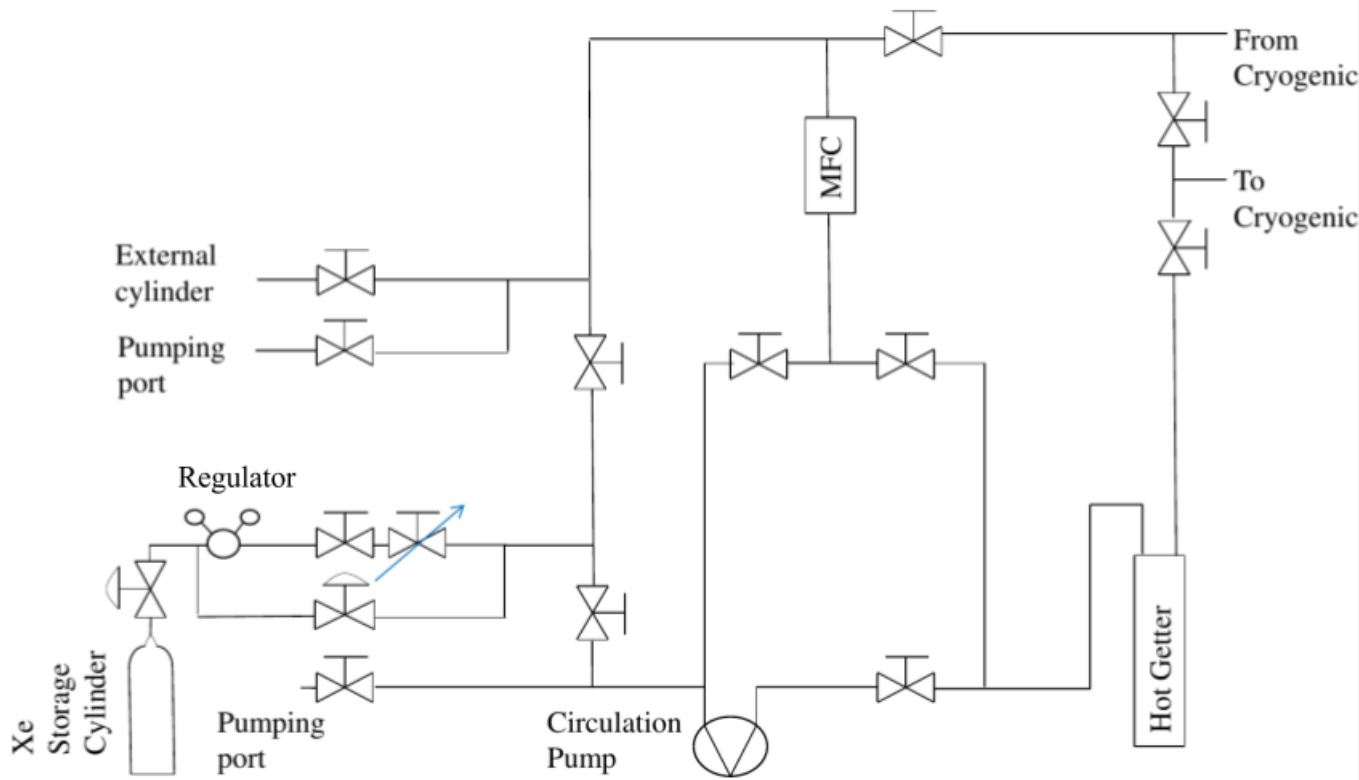
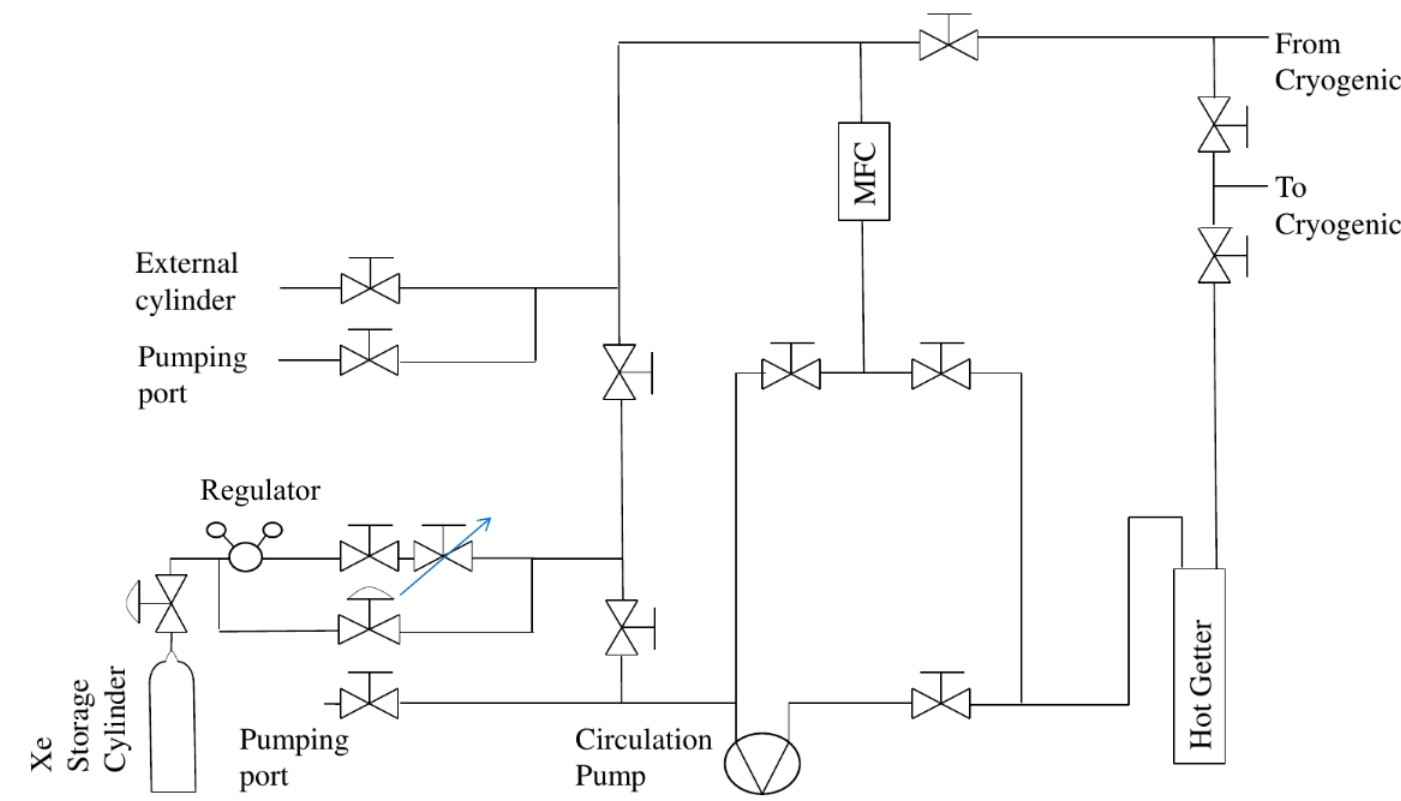
Hagar revision done final

Changed region(s): [[0.0, 0.0, 1.0, 1.0], [0.0618, 0.3077, 0.1854, 0.4], [0.8653, 0.4923, 0.8962, 0.5538]]

diff --git a/ExpSetup1.tex b/ExpSetup1.tex
@@ -7,47 +7,27 @@
 %Comment: The detector section has been modified. MMdevi's changes are made in blue
 %%%%%%%%%%%%%%%%%%%%%%%%%%%%%%%%%%%%%%%%%%%%%%%%%%%%%%%%%%%%%%%%%%%%%%%%%%%%%%%%%%%%%%%%%%%%%%%%%%%%%%%%%%%%%%%
 
-In order to identify superradiance effects in LXe, the temporal and spatial properties of scintillation events should be studied and quantified. In the DireXeno system LXe is circulated through a small spherical cavity held in a thick high purified fused silica (HPFS) sphere . The sphere is surrounded ($\sim4\pi$) by PMTs allowing high resolution spatial and temporal measurements of individual photons. The PMTs do not come in contact with the xenon, so less impurities are introduced to it, and the material selection is less stringent. The geometrical design of the system simulates a point like source of scintillation photons, and a detailed vertex reconstruction within the LXe bubble is unnecessary. A schematic view of the system is shown in Fig~\ref{fig:detSch} . 
+In order to identify superradiance effects in LXe, the temporal and spatial properties of scintillation events should be studied and quantified. In the DireXeno system LXe is circulated through a small spherical cavity held in a thick sphere made of high purified fused silica (HPFS). The sphere is surrounded ($\sim4\pi$) by PMTs allowing high resolution spatial and temporal measurements of individual photons. The PMTs do not come in contact with the xenon, so less impurities are introduced to it, and the material selection is less stringent. The geometrical design of the system approximates a point  source of scintillation photons, and a detailed vertex reconstruction within the LXe bubble is unnecessary. A schematic view of the system is shown in Fig~\ref{fig:detSch} . 
 
 \begin{figure}[h]
-\centerline{\includegraphics[width=0.8\linewidth]{DetSch.pdf}}
+\centerline{\includegraphics[width=0.8\linewidth]{DetSch.png}}
 \caption{A schematic view of DIREXENO.}
 \label{fig:detSch}
 \end{figure}
 
 
-The current system is designed with \RanComment{TODO check digitzation time} $\sim1$\,ns time resolution, less than $1$\,ns synchronization between PMTs, and $\sim8$ radians spatial resolution. Since the exact nature and magnitude of superradiance in LXe is yet unknown a guiding principle in the design was flexibility to upgrades or redesign of any part of the system to fulfill any future experiment requirements. In addition we gain fast and easy recovery in case of components malfunction. This is achieved by a modular design. 
+The current system is designed with \RanComment{TODO check digitzation time} $\sim1$\,ns time resolution, less than $1$\,ns synchronization between PMTs, and $\sim8$ radians spatial resolution. Since the exact nature and magnitude of superradiance in LXe is yet unknown a guiding principle in the design was flexibility to upgrades or redesign of any part of the system to fulfill any future experiment requirements. The modular design allows gain fast and easy recovery in case of components malfunction.
 
-Four main building blocks constitute the system. (i) \textbf{The gas handling system} which in normal working mode circulates the xenon and purifies it. (ii) \textbf{The cryogenic system}, liquefies the xenon and 
+The system is made of four main building blocks. (i) \textbf{The gas handling system} which in normal working mode circulates the xenon and purifies it. (ii) \textbf{The cryogenic system}, liquefies the xenon and 
 delivers it to the detector system. (iii) \textbf{The detector system} consists of a fused silica sphere that 
 holds a small bubble of LXe target, and PMTs around the sphere. (iv) \textbf{The DAQ system} supplies high voltage (HV) 
-to the PMTs and the handles monitoring, triggering and digitization of data. The entire assembly is held on 3 separate racks as shown in Fig.~\ref{fig:fulldet}.
- 
-
-%The experimental setup of DIREXENO is described in this section. This setup is  designed to measure the spatial and temporal properties of LXe scintillation. It consists of a modular design in order to extend its flexibility to fulfill the requirement of any different future experiments. 
-
-%The four main building blocks constitutes of the full setup, a schematics 
-%of which, with the interfaces between them is shown in Fig.~\ref{fig:fullschematics}. 
-%The gas handling system, in normal working mode, drives the xenon from the detector through 
-%a purifier and cycles it back into the detector. The cryogenic system, liquefies the xenon and 
-%delivers it to the detector system. The detector system consists of a fused silica sphere that 
-%holds a small bubble of LXe target, and PMTs around the sphere. The supply of high voltage (HV) 
-%to the PMTs and the data readout are carried out through the 
-%data acquisition system (DAQ) system. 
-%These four building blocks are independent of each other construction wise, and can be 
-%replaced without altering features in the others. 
-
-%\begin{figure}[h]
-%\centerline{\includegraphics[width=0.8\linewidth]{WholeSys.png}}
-%\caption{A schematic of DIREXENO showing all the four building blocks of the system.}
-%\label{fig:fullschematics}
-%\end{figure}
+to the PMTs and handles monitoring, triggering and digitization of data. The entire assembly is held on 3 separate racks as shown in Fig.~\ref{fig:fulldet}.
 
 
 
 \begin{figure}[h]
 \centerline{\includegraphics[width=0.8\linewidth]{FullSys.png}}
-\caption{DIREXENO. 1. The gas handling system. 2. The cryogenic system including the heat exchanger. 3. The detector chamber. 4. The Data acquisition system.}
+\caption{The DireXeno system mounted on the three racks. 1. The gas handling system. 2. The cryogenic system including the heat exchanger. 3. The detector chamber. 4. The Data acquisition system.}
 \label{fig:fulldet}
 \end{figure}
 
@@ -56,28 +36,25 @@ to the PMTs and the handles monitoring, triggering and digitization of data. The
 \subsection{The gas handling system}
 \label{subsec:gas}
 
-In DIREXENO only the prompt scintillation is measured, and so a high level of purity is not of a great importance. However in many LXE detectors the desired level of impurity concentration is at the level of 1 ppb $O_2$ equivalent~\cite{Aprile:2009dv}
-%While in DIREXENO a high level of purity is not of a great importance as only the prompt scintillation is measured, in many LXE detectors the desired level of impurity concentration is at 
-%the level of 1 ppb $O_2$ equivalent~\cite{Aprile:2009dv}. 
-This is crucial to allow 
-ionization electrons drift for several cm. To reach that level in a reasonable amount 
+In DIREXENO only the prompt scintillation is measured, so a high level of LXe purity is not of a great importance. However in many LXE detectors the desired level of impurity concentration is at the level of 1 ppb $O_2$ equivalent~\cite{Aprile:2009dv} This is crucial to allow 
+ionization electrons drift for several cm. To reach that purity level in a reasonable amount 
 of time (several days instead of months), 
 a continuous purification is needed. The gas handling system provides this process along 
-with all gas handling operations such as filling and recuperation. The xenon circulation also plays a major role in heat transfer, as will be discussed in ~\ref{subsec:det}.
+with all gas handling operations such as filling and recuperation and circulation. The xenon circulation also plays a major role in heat transfer.
 
 
 During purification, The xenon is forced by a circulation pump\footnote{N143 SN.12E AC 230V50HZ KNF diaphragm circulation pump} extracting LXe from the detector part through a heat exchanger\footnote{GEA GBS100M-24 plate heat exchanger} 
 where it is heated and vaporized, into a hot getter\footnote{MONO-TORR PS4-MT15-R-2} which cleans the xenon. The xenon passes through a mass flow controller\footnote{MKS mass flow controller 1179A00614CR1BM} (MFC), 
 enabling monitoring and controlling the amount of heat introduced to the system.  Once purified, the xenon is delivered back to the cryogenic system 
 via the heat exchanger, where the remaining GXe is 
-liquefied before it continues back to the detector part. A schematic of this 
+liquefied before flowing back to the detector part. A schematic of this 
 system is shown in fig.~\ref{fig:gasSchematic}.
 
 
 %%%%%%%%%%%%%%%%%%%%%%%%%%%%%%%%%%%%%%%%%%%%%%%%%%%%%%%%%%%%%%%%%%%%%%%%%%%%%%%%%%
 \begin{figure}[h]
 \centerline{\includegraphics[width=0.75\linewidth]{GasSchematics.png}}
-\caption{Schematics of the purification system. High pressure valves are indicated as 
+\caption{Schematics of the gas handling system. High pressure valves are indicated as 
 valves with arcs. Needle valves are indicated as 
 a valve with an arrow.}
 \label{fig:gasSchematic}
@@ -93,12 +70,12 @@ one side and to the detector part on the other, and built such that replacing th
 
 
 The cryogenic system is divided to an outer vessel (OV) which holds 
-the insulation vacuum, and an inner vessel (IV) which holds the xenon. \sout{In addition to the vacuum which prevents heat leakage due to diffusion and convection, t}The IV is completely covered by multi layer aluminized Myler to prevent heating via radiation.  
+the insulation vacuum, and an inner vessel (IV) which holds the xenon. In addition to the vacuum which prevents heat leakage due to diffusion and convection, the IV is completely covered by multi layer aluminized Myler to prevent heating via radiation.  
 
 %%%%%%%%%%%%%%%%%%%%%%%%%%%%%%%%%%%%%%%%%%%%%%%%%%%%%%%%%%%%%%%
 \begin{figure}[h]
 \centering
-\begin{subfigure}[c]{0.25\textheight}
+\begin{subfigure}[c]{0.35\textheight}
 \includegraphics[width=\textwidth]{cryoMirror.png}
 \end{subfigure}
 \begin{subfigure}[c]{0.25\textheight}
@@ -127,8 +104,7 @@ xenon experiments constantly operate in maximal cooling, the QDrive cryo-cooler 
 temperature control to vary its cooling power up to 70\,W. This allows setting a desired working temperature which is constant within less then $0.1~\mathrm{^{\circ}C}$ measured on the cryo-cooler.
 
 On the inner side of the IV bottom flange a thin 0.6~mm SS funnel is installed 
-collecting LXe drops from the cold finger, and delivering them to the  detector part. 
-This flange is attached to the detector part, via a $3\frac{3}{8}$" flexible bellows. This 
+collecting LXe drops from the cold finger, and delivering them to the  detector. This flange is attached to the detector part, via a $3\frac{3}{8}$" flexible bellows. The 
 bellows hosts two pipes connected to the circulation system, and a third pipe coming 
 from the funnel. The three pipes deliver LXe whereas the GXe is filling the bellows volume. The purer LXe (from the gas handling system) and the less pure LXe (from the cold finger) are separated, and can be delivered to different parts of the system. Some of the guidelines for the design of 
 the cryogenic system are based on~\cite{Giboni}. The CAD view of 
@@ -138,19 +114,9 @@ the design of the cryogenic system and a photo of the actual system are shown in
 \subsection{The detector system}
 \label{subsec:det}
  
-The detector system \RanComment{refers} to a vacuum chamber and its inner assembly consisting of a transparent sphere that 
+The detector system refers to a vacuum chamber and its inner assembly consisting of a transparent sphere that 
 contains the LXe, the PMT sensors observing it and their accessories. This chamber is placed below the cryogenic system. 
 
-
-%mmd{I feel 
-%that when we say ``these two parts'', it might not be a clear statement. We may either skip what we describe entirely, 
-%or might keep it as in the following.} \RanComment{agreed I think we can drop this , the paper is short enough so we don't need to detail where we describe what.}
-%We describe the detector chamber and its interface to the cryogenic system in 
-%section \ref{subsubsec:detchamber}. In section \ref{subsubsec:sphere} we discuss the assembly 
-%%around the sphere.
-%%%%%%%%%%%%%%%%%%%%%%%%%%%%%%%%%%%%%%%%%%%%%%%%%%%%%%%%%%%%%%%%%%%%%%%%%%%%%%%%%%%%%%%%%%%%%%%%%%%%%%%%
-%\subsubsection{The Detector Chamber}
-%\label{subsubsec:detchamber}
 
 The interface unit to the cryogenic system is built out of two flanges welded together via seven tubes, which serve as service ports for electrical and other feedthroughs: four 
 with a $2 \frac{3}{4}/$ CF flange, and three with a $1\frac{1}{3}$ CF flange (mini-CF). 
@@ -162,16 +128,13 @@ the length of the nipple is determined such that the maximal height of the whole
 apparatus is 190~\,cm, allowing an easy transport of the detector through standard doors.
  
 The $4\frac{5}{8}$" CF flange is connected to a split vessel that serves as a LXe reservoir. one part is connected 
-to the HPFS sphere from above, and one from below. LXe is circulated such that LXe coming from the gas system drips into one part and pumped from the other. This controls the liquid level, and the sphere is constantly filled with LXe. 
+to the top of the HPFS sphere, and one to the bottom. LXe is circulated such that LXe coming from the gas system drips into one part and pumped from the other. This controls the liquid level, and the sphere is constantly filled with LXe. 
 
 
 The sphere is a custom designed hollow shell made of Corning HPFS 8655 with high transmittance to VUV. Two Invar tubes with SS mini-CF flange are connected to the sphere on both sides. The technical design and photo of the sphere are shown in Fig.~\ref{fig:sphere}. The optical properties of the sphere will be further discussed in Sec.~\ref{sec:opt}. 
 The bottom flange of the sphere is held using a brass holder to prevent 
 force or torque applied on the sphere while mounting it. The 
 brass holder is connected to a plate held from the top CF-10" flange. 
-%A set of 20 
-%PMTs\footnote{R8520-406 Hamamatsu 1" PMT, active area 20.5 mm $\times 20.5 mm$} 
-%are placed around the sphere to detect light emitted from the LXe.
 
 
 %%%%%%%%%%%%%%%%%%%%%%%%%%%%%%%%%%%%%%%%%%%%%%%%%%%%%%%%%%%%%%%%%%%%%%
@@ -195,7 +158,7 @@ Photons emitted from the LXe in the sphere are detected by 20  PMTs\footnote{R85
 The PMTs are chosen to have a quantum efficiency greater than 30\% at 178\,nm. The gain of the PMTs is ~ 2 $\times$ 10$^6$ at an applied voltage of 900\,V . A positive voltage divider\footnote{Hamamatsu VDS18130p 24 channel poisitve polarity.}, is used to to provide high voltage to the PMTs. 
 The PMTs are held with a special aluminum holder, coated with anti-reflection substance. 
 The holder is made of two hemispheres hosting the PMTs in 3 rows all of them pointing to the 
-center of the sphere. The PMTs are attached to the holder by their voltage--divider bases using M2 PEEK screws see Fig~\ref{fig:pmtholder}. 
+center of the sphere. The PMTs are attached to the holder by their voltage--divider bases using M2 PEEK screws (see Fig~\ref{fig:pmtholder}). 
 The CAD design and a photo of the detector system are shown 
 in Fig.~\ref{fig:detector}.
 

diff --git a/simulation.tex b/simulation.tex
@@ -1,11 +1,11 @@
 \section{Detector sensitivity}
 \label{sec:sim}
 %%%%%%%%%%%%%%%%%%%%%%%%%%%%%%%%%%%%%%%%%%%%%%%%%%%%%%%%%%%%%%%%%%%%%%%%%%%%%%%%%%%%%%%%%%%%%%%%%%%%%%%%%%%%%%%%%%%%%%%%
-The detector's sensitivity is estimated by its ability to identify an anisotropic component in the scintillation photons emission pattern (signal), over the isotropic one (background). The photon emission pattern is modeled using a combination of isotropic emission and one or two beams:
+The sensitivity of the detector is estimated by its ability to identify an anisotropic component in the scintillation photons emission pattern (signal), over the isotropic one (background). The photon emission pattern is modeled using a combination of isotropic emission and one or two beams:
 \begin{equation}
 \mathcal{F}(\theta,\phi) = (1-r_{aniso}) \cdot f_{iso} + r_{aniso}\cdot\left[r_1 f_G(\sigma_1) + r_2 f_G(\sigma_2) \right], 
 \end{equation}  
-where  $f_{iso}$ is the PDF of an isotropic emission, $f_G$ is a PDF of a Gaussian distribution with half width $\sigma$. $r_{aniso}$ is the anisotropic emission fraction, and $r_{1/2}$ are the relative beams intensities. The first beam direction is random, and the second's is either random 
+where  $f_{iso}$ is the PDF of an isotropic emission, $f_G$ is a PDF of a Gaussian distribution with half width $\sigma$. $r_{aniso}$ is the anisotropic emission fraction, and $r_{1,2}$ are the relative beams intensities. The first beam direction is random, and the second's is either random 
 (''uncorrelated``) or opposite to the first's (''correlated``). The different emission patterns used here are summarized in Table~\ref{tab:AnisoPattern}.
  
 \begin{table}[h]
@@ -97,7 +97,7 @@ Each detected photon on a PMT is assigned a uniformly random position on the PMT
 The direction of this point with respect 
 to the center of the LXe sphere is defined as the incident direction of the photon. The direction information 
 is then used to calculate the angles between all possible pairs of photon for any event and 
-calculate the correlation between all angle pairs. \RanComment{Add fig of correlstions iso and aniso}
+calculate the correlation between all angle pairs. \RanComment{Do you want to add fig of correlations iso and aniso?}
 
 In order to quantify the anisotropicity of the emission, 
 the angle correlation distribution of an anisotropic hit pattern is compared to that of the isotropic 
@@ -112,28 +112,6 @@ where $E_i$ is the expected number of entries for an isotropic emission obtained
 $O_i$ is the observed number of entries, and $\nu$ is the total number of angle correlation bins 
 which is also the degree of freedom. Sixty bins of identical width are used.
 
-
-
-%In order to test the emission pattern, the angle correlation distribution of a large sample ($10^5$ events) 
-%from isotropic emission is considered as the PDF of the null hypothesis and is compared 
-%to that of a number of smaller samples ($10^4$ events) from different types of anisotropic emissions. 
-%The reduced $\chi^2$ for each sample is calculated as follows.
-%
-%\begin{equation}
-%\chi^2_\nu = \frac{1}{\nu} \sum^{\nu}_{i=1} \frac{(O_i - E_i)^2}{E_i}
-%\label{redchi2}
-%\end{equation}
-%
-%where, $O_i$ is the observed count in the $i^{th}$ angle bin, $E_i$ is the expected count in the $i^{th}$ 
-%angle bin and $\nu$ is the total number of angle bins which is also the degree of freedom. In this analysis, 
-%60 bins of identical width are used. 
-
-
-
-
-%%%%%%%%%%%%%%%%%%%%%%%%%%%%%%%%%%%%%%%%%%%%%%%%%%%%%%%%%%%%%%%%%%%%%%%%%%%%%%%%%%%%%%%
-
-%%%%%%%%%%%%%%%%%%%%%%%%%%%%%%%%%%%%%%%%%%%%%%%%%%%%%%%%%%%%%%%%%%%%%%%%%%%%%%%%%%%%%%%
 
 To asses the needed exposure to claim discovery assuming one of the   pattern mentioned above, $10^4$ data sets are generated and tested against the null hypothesis. This is repeated for increasing number of events between $1-4000$ assuming different values of the anisotropy fraction ($r_{aniso}$). The <$\chi^2_\nu$> 
 and its 2$\sigma$ band for pattern 1, assuming $r_{aniso} =0.1$ overlaid with the corresponding values  for an isotropic emission are shown in Fig.~\ref{fig:pattern1}.  
@@ -150,10 +128,10 @@ is expected to do reasonable measurements for ER and NR events.
 %%%%%%%%%%%%%%%%%%%%%%%%%%%%%%%%%%%%%%%%%%%%%%%%%%%%%%%%%%%%%%%%%%%%%%%%%
 \begin{figure}[h]
 \centerline{\includegraphics[width=0.5\linewidth]{Pattern1.png}}
-\caption{<$\chi^2_\nu$> and its $2\sigma$ band for isotropic emission (black) and for pattern 1 (red). The <$\chi^2_\nu$> for 
+\caption{<$\chi^2_\nu$> and its $2\sigma$ band for isotropic emission (black) and for pattern 2 (blue). The <$\chi^2_\nu$> for 
 isotropic emission fluctuate around 1 with $\sigma$ = 0.2 which is consistent with 
 the expected value of $\frac{1}{\sqrt{30}} \equiv 0.18$ for reduced $\chi^2$ distribution 
-with 60 degrees of freedom. $\sim3000$ events are needed to claim  5$\sigma$ discovery ($\chi^2_\nu=2.1$) or this emission pattern}
+with 60 degrees of freedom. $\sim3000$ events are needed to claim  5$\sigma$ discovery ($\chi^2_\nu=2.1$) for this emission pattern}
 \label{fig:pattern1}
 \end{figure}
 %%%%%%%%%%%%%%%%%%%%%%%%%%%%%%%%%%%%%%%%%%%%%%%%%%%%%%%%%%%%%%%%%%%%%%%%%%%%
@@ -162,7 +140,7 @@ with 60 degrees of freedom. $\sim3000$ events are needed to claim  5$\sigma$ dis
 \begin{figure}[h]
 \centering
 \includegraphics[width=0.45\linewidth]{ConvergenceVsRaniso.pdf}
-\caption{The number of events needed for each emission pattern to cross <$\chi^2_\nu$> = 2.1. Here 
+\caption{The number of events needed for each emission pattern to achieve $5\sigma$ presented only for pattern 1 and 9. Here 
 $r_{aniso}$ = 0.1. for four different values of $r_{aniso}$.}
 \label{fig:convergence}
 \end{figure}

diff --git a/TheSphere.tex b/TheSphere.tex
@@ -1,26 +1,26 @@
 \section{Optical properties of the sphere }
 \label{sec:opt}
 
-The central component of the experiment is the HPFS sphere, which holds the LXe target, located in the center of the detector system. The sphere is made of two Corning HPFS 8655 hemispheres attached by a UV transparent glue. The refractive index of this HPFS is 1.58 at 185 nm, matching to the LXe one, which is 1.61. Hence, there is minimal diffraction from the original direction of the photons as they transit from the LXe target to the sphere. The refractive indexes at various wavelengths are shown in Fig.~\ref{fig:hpfsRIcalibration} (left panel).
+The central component of the experiment is the HPFS sphere, which holds the LXe target, located in the center of the detector system. The sphere is made of two Corning HPFS 8655 hemispheres attached by a UV transparent glue. The refractive index of this HPFS is 1.58 at 185 nm, matching to the LXe one, which is 1.61. Hence, there is minimal diffraction from the original direction of the photons as they transit from the LXe target to the sphere. The refractive indexe at various wavelengths are shown in Fig.~\ref{fig:hpfsRIcalibration} (left panel).
 
 
 The HPFS transparency to VUV photons is an extremely crucial parameter for setting the sphere's dimensions (inner and outer radii) and detector sensitivity. Therefore, the transmittance of an HPFS sample was measured, using a VUV monochromator light source. 
-The measured transmittances as a function of wavelength are shown in Fig.~\ref{fig:hpfsRIcalibration}~(right panel). The \sout{intrinsic} transmittance of the sample at 178~\,nm, is$\sim98.7$\,\%/cm.  
+The measured transmittances as a function of wavelength are shown in Fig.~\ref{fig:hpfsRIcalibration}~(right panel). The transmittance of the sample at 178~\,nm, is$\sim98.7$\,\%/cm.  
 
 \begin{figure}[h]
    \centering
    \includegraphics[width=0.48\textwidth]{RI-calibration.pdf}
     \includegraphics[width=0.48\textwidth]{IntTransmittance.pdf}
    \caption{Some relevant characteristics of HPFS-8655. (Left) The refractive index as provided by corning and 
-   extrapolated to relevant wavelength range. (Right) The internal transmittance ($T_{i}$).} 
+   extrapolated to relevant wavelength range. (Right) The internal transmittance ($T_{i}$). \RanComment{Say something about the error bars}} 
    \label{fig:hpfsRIcalibration}
 \end{figure}
 
 
-The shell should be thick enough to reduce internal reflections, but not 
-too thick to attenuate the scintillation light. The LXe target bubble within should not be too large in order to avoid double scatters. The sources that will be used for exciting the xenon, and creating the supperradiance 
+The sources that will be used for exciting the xenon, and creating the supperradiance 
 (signal) as well as the standard emission (background), will be $^{137} \mathrm{Cs}$ 
 (E$_\gamma$=662 keV) and $^{57} \mathrm{Co}$( E$_\gamma$= 122keV \& 136 keV) for ER with mean free path of $\sim4$\,cm and $\sim1$\,cm respectively. For NR $^{241}$AmBe , 
 D-D neutron generator, or neutron produced in an accelerator will be used.
 
-Using a GEANT4 based simulation~\cite{AGOSTINELLI2003250} studying the path of the scintillation photons the sphere dimensions are optimized. The outer radius  is 3 cm, and the inner (the hollow space that holds the LXe) is 1 cm. 
+Using a GEANT4 based simulation~\cite{AGOSTINELLI2003250} studying the path of the scintillation photons the sphere dimensions are optimized. The shell should be thick enough to reduce internal reflections, but not 
+too thick to attenuate the scintillation light. The LXe target bubble within should not be too large in order to avoid double scatters. The outer radius  is 3 cm, and the inner (the hollow space that holds the LXe) is 1 cm. 

diff --git a/DAQ.tex b/DAQ.tex
@@ -15,29 +15,11 @@ The PMTs are ramped up to +800V (the maximum is +900V) using VME high voltage di
 \begin{figure}[h]
    \centering
    \includegraphics[width=0.85\textwidth]{DAQscheme.pdf}
-   \caption{The schematic of the Data Acquisition System of DIREXENO. It 
-        consists of 20 PMTs ({\it i} = 1 -- 20) and the subsequent electronic channels to record 
-        the events for an internal trigger generated by the coincidence of any 
-        two PMTs in the system and also the PMT noise rate. Where S{\it i}(raw) is the raw electrical pulse output of the PMTs, S{\it i} are the amplified pulses, and SD{\it i} are the binary outputs from the discriminator. 
+   \caption{The schematic of the data acquisition system of DireXeno. The 			signal coming from 20 PMTs ({\it i} = 1 -- 20) and the subsequent electronic channels to record the events once triggered. Where S{\it i}(raw) is the raw electrical pulse output of the PMTs, S{\it i} are the amplified pulses, and SD{\it i} are the binary outputs from the discriminator. 
 }
    \label{Fig:DAQscheme}
 \end{figure}
 %%%%%%%%%%%%%%%%%%%%%%%%%%%%%%%%%%%%%%%%%%%%%%%%%%%%%%%%%%%%%%%%%%%%%%%%%%%
-
-%The schematic layout 
-%of the DAQ system is shown in Fig.~{\ref{Fig:DAQscheme}}. All the 20 PMTs 
-%are oriented in the holder assembly which was discussed in section \ref{subsubsec:sphere}. 
-%The PMTs are ramped up to +800V (the maximum is +900V) using a 24 channel 
-%VME high voltage distributor module \footnote{iseg VDS18130p : 24 independent channels with positive polarity}.  
-%The raw electrical pulse output of the PMTs are defined as S{\it i} (raw), where {\it i} = 1 -- 20. 
-%These raw pulses are then 
-%amplified and shaped using two photomultiplier preamplifiers \footnote{Phillips 776: 16 independent  and direct-coupled 
-%amplifiers channels}. The preamplifier channels operates from DC to 275 MHz and 
-%produce two identical 50 $\Omega$ non inverting outputs with voltage gains of 10. 
-%The amplified pulses as defined as S{\it i}, ({\it i} = 1 -- 20). One out of the 
-%two identical analog outputs from each channel is converted to a digital 
-%signal with an Analog to Digitizer converter \footnote{CAEN ADC V1742: 
-%32 channel switched capacitor Digitizer}. 
 
 
 The ADC consists of two 12bit 5GS/s switched capacitor digitizer sections, 
@@ -49,8 +31,8 @@ buffers are frozen and digitized into a digital memory buffer
 with a 12 bit resolution. 
 
 The binary output signals from the discriminator are duplicated and fed to 
-the logic module\footnote{CAEN V1495: FPGA based general purpose VME board} and to a scaler\footnote{CAEN V830: 16 channel scalar} 
-\sout{An intrinsic} \RanComment{A global majority} trigger is generated in the logic module with the coincidence of any two out of the twenty PMTs within a time window of \RanComment{XXX\,ns}. The event information and trigger rate are read from the ADC, while the individual PMTs trigger rate from the scaler. Further analyses of the relevant events are carried out offline.
+the logic module\footnote{CAEN V1495: FPGA based general purpose VME board} and to a scaler\footnote{CAEN V830: 16 channel scalar}. 
+A global majority trigger is generated in the logic module with the coincidence of any two out of the twenty PMTs within a time window of \RanComment{XXX\,ns}. The event information and trigger rate are read from the ADC, while the individual PMTs trigger rate from the scaler. Further analyses of the relevant events are carried out offline.
 
 
 

diff --git a/summary.tex b/summary.tex
@@ -1,28 +1,13 @@
 \section{Summary}
 \label{sec:summary}
 
-%We have presented Direxeno, a setup to measure the spatial distribution of LXe scintillation. 
-%The system described is built from 4 main building (gas handling system, cryogenic, detector, 
-%and DAQ) blocks which can be exchanged without effecting others. This property allows flexibility 
-%and modularity.
-%
-%We have presented the sensitivity to different postulated non isotropic emission types, and a 
-%test statistics to quantify them. For all of them a run time of 2-3 weeks is required assuming 
-%standard radioactive sources. Therefore the system is designed to maintain stability.
-%
-%Using Direxeno, effects like superradiance or any other non-linear scintillation can be measured. 
-%Measuring the correlation between the direction of the emission and the direction of the radioactive 
-%source, may lead to directionality measurement which will allow reducing of background and improving 
-%sensitivity in DM experiments.
-
 The setup of Direxeno, an experiment to measure the spatial and temporal distribution of LXe scintillation, has 
 been presented. The system consists of 4 main building blocks (gas handling, cryogenic, detector, 
 and DAQ), each of which can be exchanged without altering others allowing significant flexibility 
 and modularity. Each of the building blocks has been described in detail, with emphasis on the design 
 and components.
 
-The sensitivity of the setup to different postulated non isotropic emission types are studied using MC simulations. A test statistics to quantifie each of the emission pattern is performed. 
-For all of the patterns studied, a run--time of 2-3 weeks is required assuming typical radioactive 
+The sensitivity of the setup to different postulated non isotropic emission patterns are studied using MC simulations. For the patterns studied, a run--time of 2-3 weeks is required using typical radioactive 
 sources. Therefore the system is designed to maintain stability over a reasonable time period.
 
 Using DireXeno, effects like superradiance or any other non-linear scintillation can be measured. 
